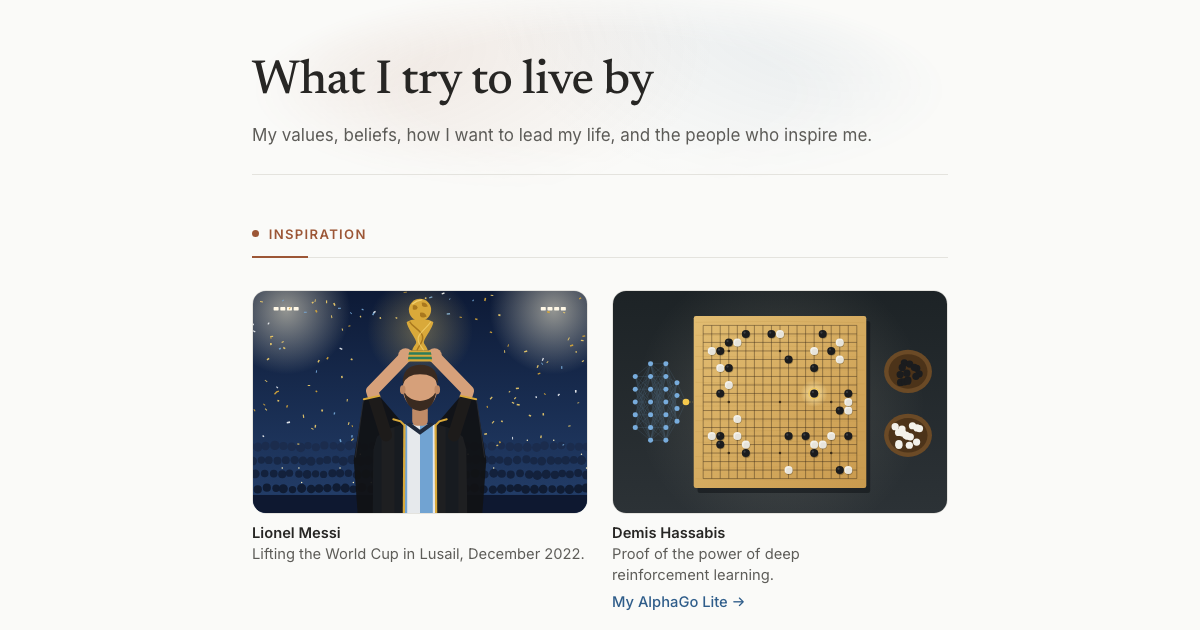
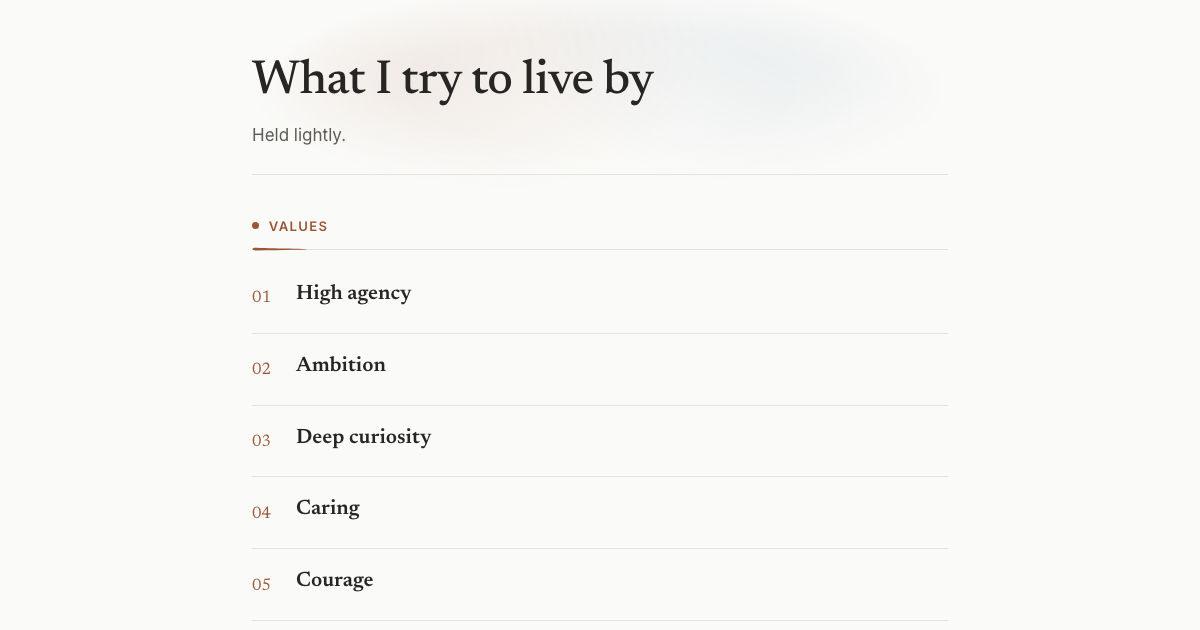
Link previews recaptured for the profile and Values, matching the pages as they are now

Changed region(s): [[0.185, 0.4524, 0.8017, 0.9651], [0.2158, 0.3317, 0.7708, 0.4222], [0.2158, 0.181, 0.7092, 0.2413]]

diff --git a/values.html b/values.html
@@ -21,9 +21,9 @@
   <meta property="og:image" content="https://amalmehta.com/images/og-values.png">
   <meta property="og:image:width" content="1200">
   <meta property="og:image:height" content="630">
-  <meta property="og:image:alt" content="What I try to live by: drawings of the people who inspire Amal Mehta, from Lionel Messi lifting the World Cup to Richard Feynman at a blackboard">
+  <meta property="og:image:alt" content="What I try to live by: the title, Held lightly, and the first of Amal Mehta’s values">
   <meta name="twitter:card" content="summary_large_image">
-  <meta name="twitter:image:alt" content="What I try to live by: drawings of the people who inspire Amal Mehta, from Lionel Messi lifting the World Cup to Richard Feynman at a blackboard">
+  <meta name="twitter:image:alt" content="What I try to live by: the title, Held lightly, and the first of Amal Mehta’s values">
   <link rel="preload" href="fonts/newsreader-latin.woff2" as="font" type="font/woff2" crossorigin>
   <link rel="preload" href="fonts/inter-latin.woff2" as="font" type="font/woff2" crossorigin>
   <link rel="stylesheet" href="styles.css">
